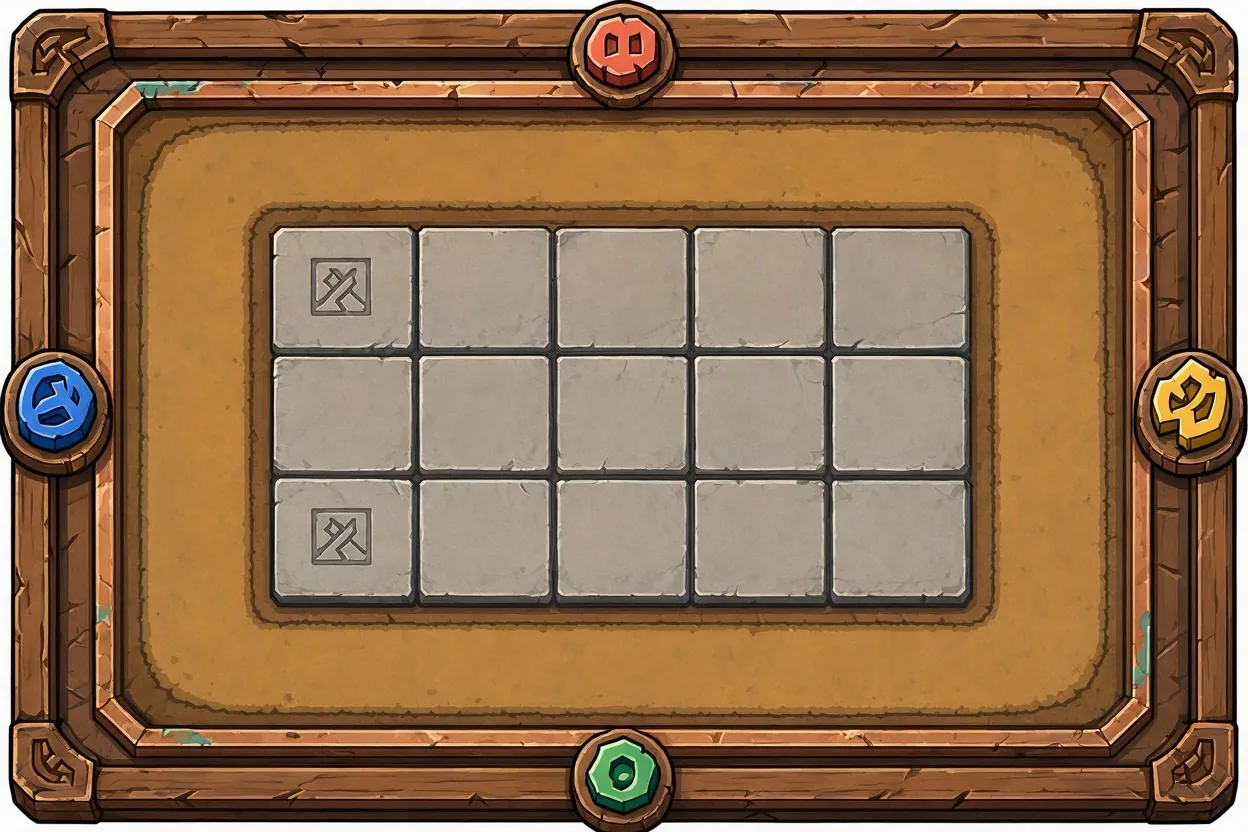
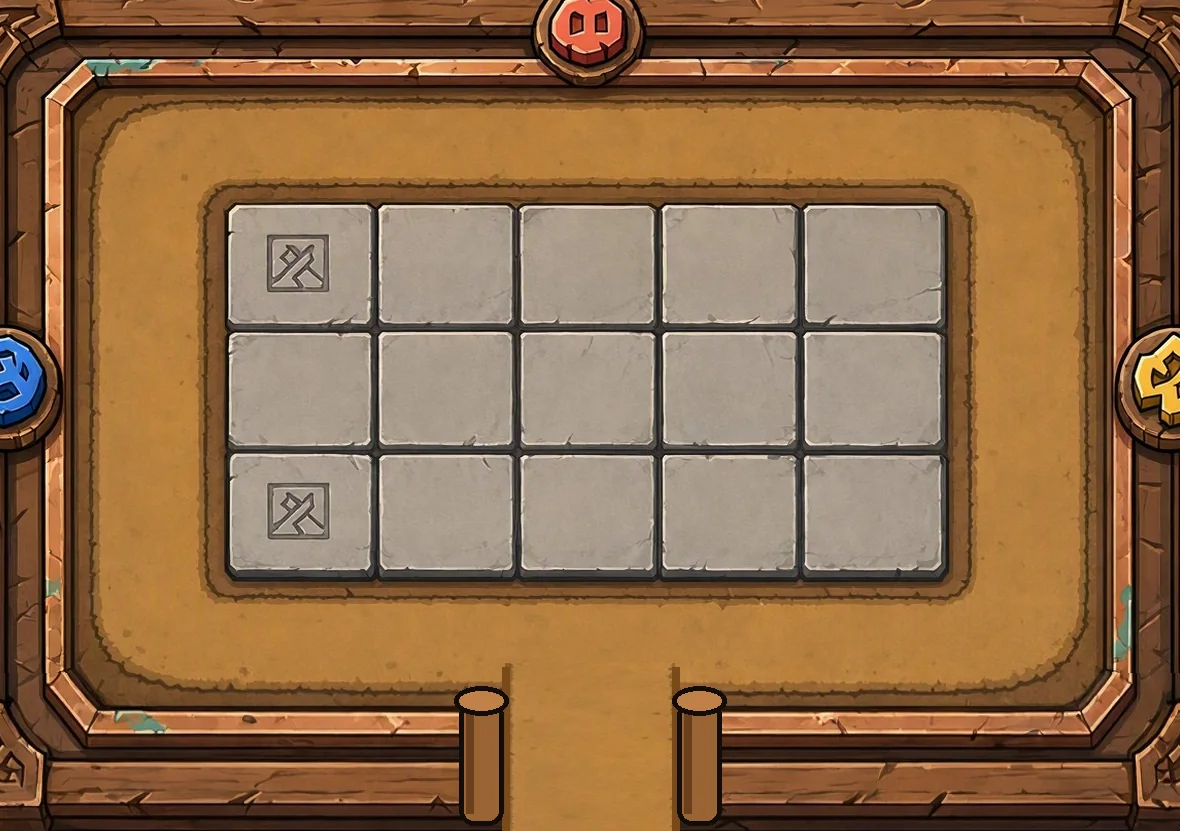
Tableros de arena y lava a la misma medida que el del bosque
Las dos imágenes se generan ya encajadas a 1180x831 con las 15 casillas
en el mismo sitio que en el prado, así las casillas miden exactamente
igual en los tres tableros. Entrada y salida por abajo en el medio:
pasillo de arena entre postes de madera y río de lava entre pilares.

diff --git a/js/board.js b/js/board.js
@@ -41,14 +41,15 @@ var FIELDS = {
   prado: { image: 'board/tablero', iw: 1672, ih: 941, cx: 250, cy: 110, cw: 1180, ch: 831, fade: true,
     gx0: 477, gy0: 315, gx1: 1196, gy1: 690,
     way: [[805, 990], [805, 767], [322, 767], [322, 185], [1352, 185], [1352, 767], [866, 767], [866, 990]] },
-  // arena con marco de madera (assets/boards/arena.webp)
-  arena: { image: 'boards/arena', iw: 1248, ih: 832, cx: 80, cy: 60, cw: 1090, ch: 772, bg: 'fondo',
-    gx0: 272, gy0: 228, gx1: 970, gy1: 606,
-    way: [[590, 850], [590, 670], [195, 670], [195, 163], [1050, 163], [1050, 670], [655, 670], [655, 850]] },
-  // río de lava (assets/boards/lava.webp)
-  lava: { image: 'boards/lava', iw: 1248, ih: 832, cx: 260, cy: 150, cw: 705, ch: 570,
-    gx0: 420, gy0: 302, gx1: 808, gy1: 530,
-    way: [[585, 740], [585, 615], [318, 615], [318, 210], [905, 210], [905, 615], [640, 615], [640, 740]] }
+  // arena y lava: imágenes ya encajadas a la medida del prado (1180×831 y las
+  // casillas en el mismo sitio), así las casillas miden igual en los tres.
+  // Entrada y salida por abajo en el medio, como en el prado.
+  arena: { image: 'boards/arena', iw: 1180, ih: 831, cx: 0, cy: 0, cw: 1180, ch: 831, bg: 'fondo',
+    gx0: 227, gy0: 205, gx1: 946, gy1: 580,
+    way: [[558, 880], [558, 643], [148, 643], [148, 141], [1028, 141], [1028, 643], [622, 643], [622, 880]] },
+  lava: { image: 'boards/lava', iw: 1180, ih: 831, cx: 0, cy: 0, cw: 1180, ch: 831,
+    gx0: 227, gy0: 205, gx1: 946, gy1: 580,
+    way: [[560, 880], [560, 720], [42, 720], [42, 54], [1126, 54], [1126, 720], [620, 720], [620, 880]] }
 };
 var BIOME_FIELD = { prado: 'prado', bosque: 'prado', pantano: 'prado', hielo: 'arena', ruinas: 'arena', desierto: 'arena', volcan: 'lava', cripta: 'lava' };
 function fieldGeo(id) {

diff --git a/sw.js b/sw.js
@@ -2,7 +2,7 @@
 // Guarda el juego para poder jugar sin conexión. Página, JS y CSS van
 // primero a la red (así se ven los cambios al momento); imágenes y fuentes
 // salen de la caché y se renuevan por detrás.
-var CACHE = 'reino-de-torres-v7';
+var CACHE = 'reino-de-torres-v8';
 var CORE = ['./', 'index.html', 'style.css', 'favicon.svg', 'manifest.json', 'js/data.js', 'js/art.js', 'js/meta.js', 'js/board.js', 'js/battle.js', 'js/ui.js', 'assets/ui/boton.webp', 'assets/tablero.webp', 'assets/enemies/blob.webp', 'assets/ui/fondo.webp', 'assets/ui/boton-invocar.webp', 'assets/ui/marco-carta.webp', 'assets/ui/carta.webp', 'assets/ui/vida.webp', 'assets/ui/mana.webp', 'assets/ui/contador-mana.webp', 'assets/ui/comandante.webp', 'assets/ui/boton-invocar-2.webp', 'assets/ui/marco.webp', 'assets/boards/arena.webp', 'assets/boards/lava.webp', 'assets/tiles/altar.webp', 'assets/tiles/fuente.webp', 'assets/tiles/atalaya.webp'].concat(['lyra', 'brasa', 'nivea', 'doblon', 'rocco', 'volta', 'mirra', 'melodia', 'sombra', 'cronos', 'halcon', 'ulric'].map(function (id) { return 'assets/units/' + id + '.webp'; })).concat(['ghost', 'brute', 'orco', 'rocoso', 'escarcha', 'gelido', 'coloso', 'coloso2', 'nigro', 'dragon'].map(function (id) { return 'assets/enemies/' + id + '.webp'; }));
 self.addEventListener('install', function (e) { e.waitUntil(caches.open(CACHE).then(function (c) { return c.addAll(CORE); }).then(function () { return self.skipWaiting(); })); });
 self.addEventListener('activate', function (e) { e.waitUntil(caches.keys().then(function (ks) { return Promise.all(ks.filter(function (k) { return k !== CACHE; }).map(function (k) { return caches.delete(k); })); }).then(function () { return self.clients.claim(); })); });

diff --git a/index.html b/index.html
@@ -15,7 +15,7 @@
 <link rel="preconnect" href="https://fonts.googleapis.com">
 <link rel="preconnect" href="https://fonts.gstatic.com" crossorigin>
 <link href="https://fonts.googleapis.com/css2?family=Lilita+One&family=Nunito:wght@700;800;900&display=swap" rel="stylesheet">
-<link rel="stylesheet" href="style.css?v=7">
+<link rel="stylesheet" href="style.css?v=8">
 </head>
 <body>
   <div id="menu" class="menu"></div>
@@ -45,11 +45,11 @@
   <div id="overlay" class="overlay" hidden></div>
   <div id="toast" class="toast"></div>
 
-  <script src="js/data.js?v=7"></script>
-  <script src="js/art.js?v=7"></script>
-  <script src="js/meta.js?v=7"></script>
-  <script src="js/board.js?v=7"></script>
-  <script src="js/battle.js?v=7"></script>
-  <script src="js/ui.js?v=7"></script>
+  <script src="js/data.js?v=8"></script>
+  <script src="js/art.js?v=8"></script>
+  <script src="js/meta.js?v=8"></script>
+  <script src="js/board.js?v=8"></script>
+  <script src="js/battle.js?v=8"></script>
+  <script src="js/ui.js?v=8"></script>
 </body>
 </html>

diff --git a/js/art.js b/js/art.js
@@ -58,7 +58,7 @@ Object.keys(IMG_LIST).forEach(function (dir) {
   IMG_LIST[dir].forEach(function (id) {
     var im = new Image();
     im.onload = function () { im.ready = true; imgReadyCount++; _unitIconCache = {}; _tintCache = {}; if (window.onArtReady) window.onArtReady(); };
-    im.src = 'assets/' + dir + '/' + id + '.webp';
+    im.src = 'assets/' + dir + '/' + id + '.webp' + (dir === 'boards' ? '?v=2' : '');
     IMG[dir + '/' + id] = im;
   });
 });
